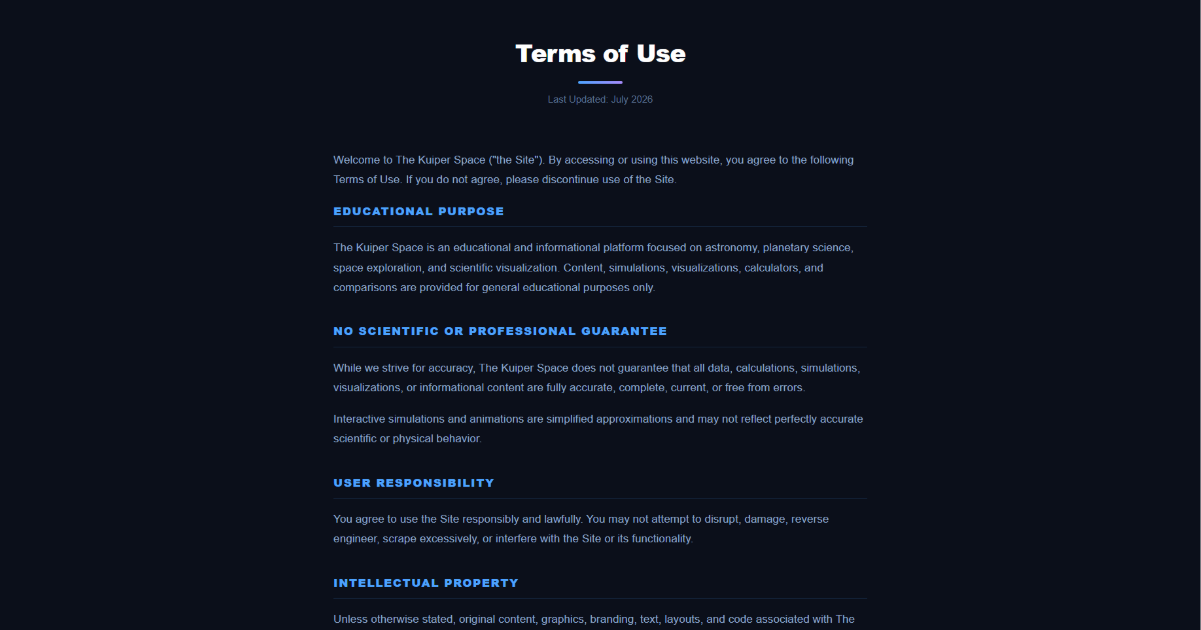
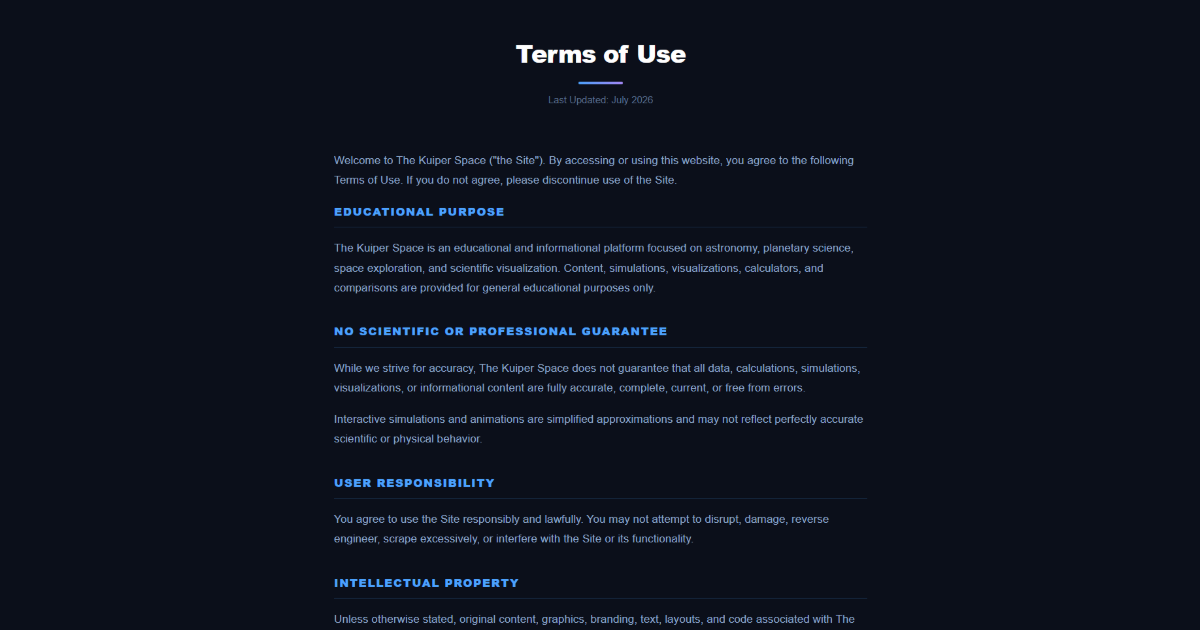
Update copyright and privacy date of last update and add terms meta og image
- Update copyright and privacy date of last update (July 2026)
- Update terms meta og image

diff --git a/pages/copyright.html b/pages/copyright.html
@@ -140,7 +140,7 @@
     <div class="legal-hero">
         <h1>Copyright & DMCA Notice</h1>
         <div class="hero-divider"></div>
-        <div class="legal-updated">Last Updated: May 2026</div>
+        <div class="legal-updated">Last Updated: July 2026</div>
     </div>
 
     <div class="legal-body">

diff --git a/pages/privacy.html b/pages/privacy.html
@@ -140,7 +140,7 @@
     <div class="legal-hero">
         <h1>Privacy Policy</h1>
         <div class="hero-divider"></div>
-        <div class="legal-updated">Last Updated: May 2026</div>
+        <div class="legal-updated">Last Updated: July 2026</div>
     </div>
 
     <div class="legal-body">
